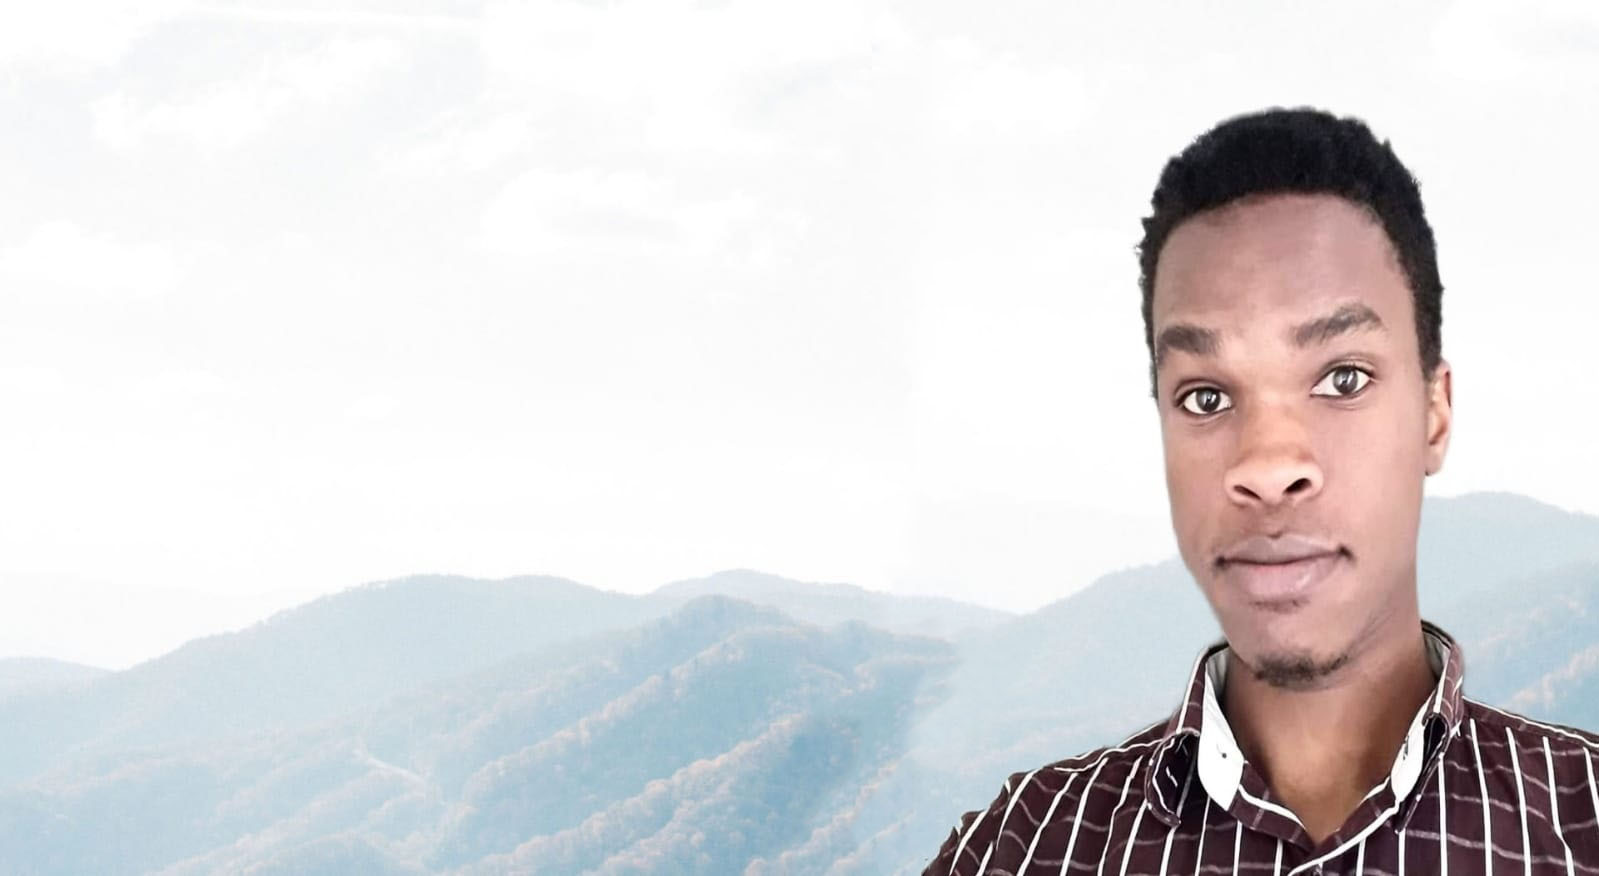
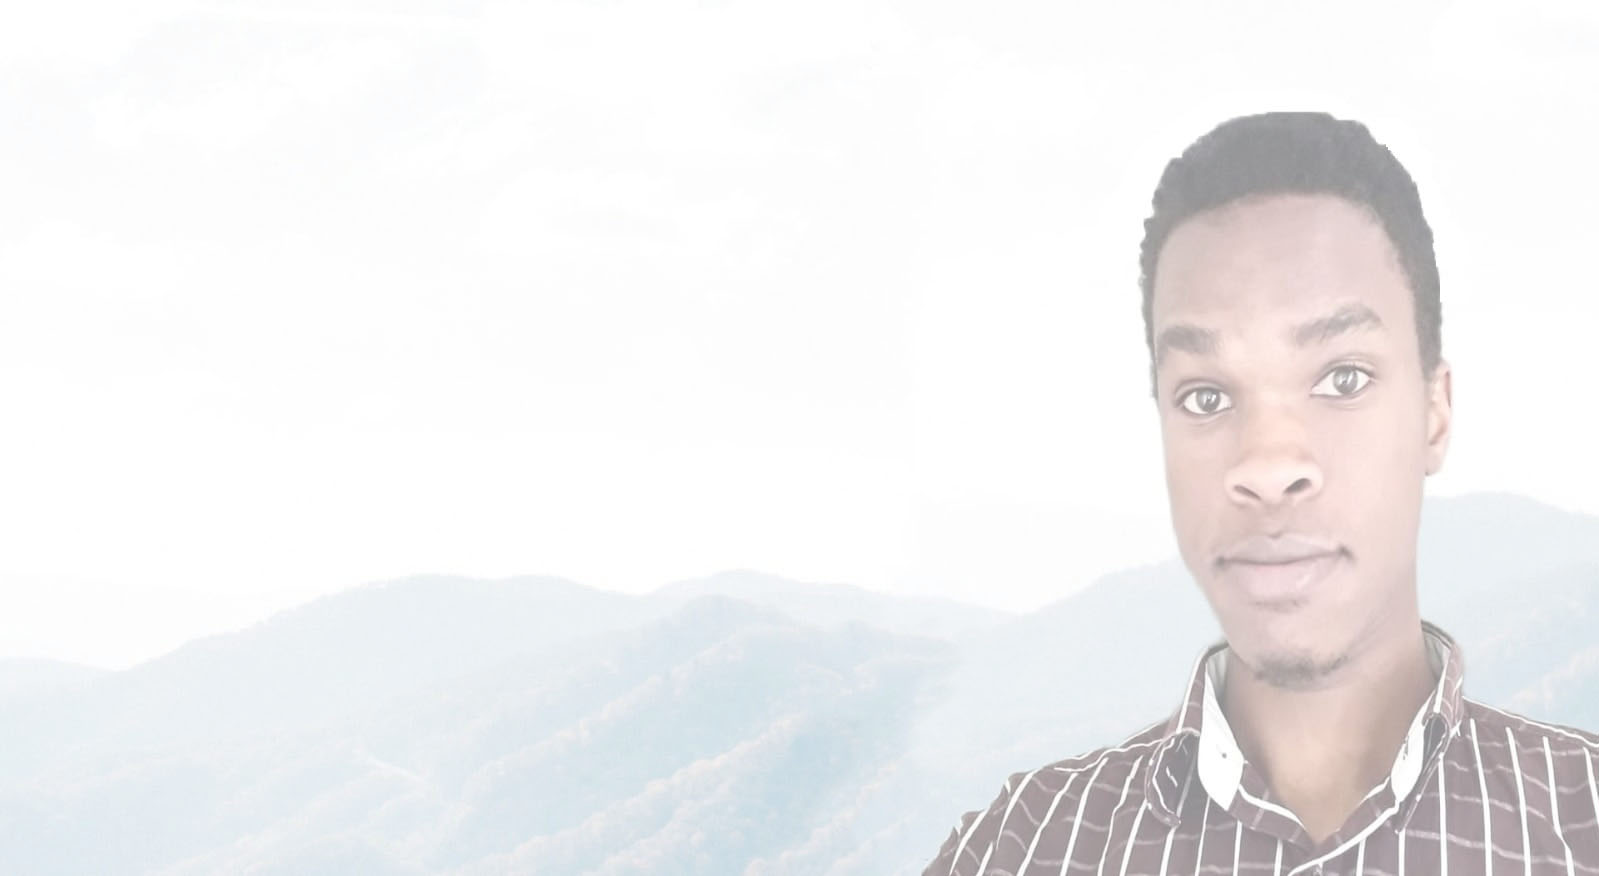
Updated aos code

diff --git a/index.html b/index.html
@@ -72,7 +72,7 @@
       <p>Computer Scientist specialising as <span class="typed" data-typed-items=" Software Developer, IT Infrastructure Engr., Data Visualisation, Cybersecurity Professional"></span></p>
       <div class="social-links">
         <a href="https://twitter.com/eariko1" class="twitter"><i class="bx bxl-twitter"></i></a>
-        <a href="https://www.facebook.com/arikom.org/" class="facebook"><i class="bx bxl-facebook"></i></a>
+        <a href="https://www.facebook.com/arikomtech/" class="facebook"><i class="bx bxl-facebook"></i></a>
         <a href="#" class="instagram"><i class="bx bxl-instagram"></i></a>
         <a href="https://www.linkedin.com/in/emmanuel-jesse-ariko/" class="linkedin"><i class="bx bxl-linkedin"></i></a>
       </div>
@@ -86,7 +86,7 @@
 
         <div class="section-title">
           <h2>About</h2>
-          <h3 style="font-family: 'Segoe UI', Tahoma, Geneva, Verdana, sans-serif; color: rgb(50, 133, 201);">Emmanuel Jesse Ariko</h3>
+          <h3 class="mx-2" style="font-family: 'Segoe UI', Tahoma, Geneva, Verdana, sans-serif; color: rgb(50, 133, 201);">Emmanuel Jesse Ariko</h3>
           <p class="mx-1">Principal software developer and Network Infrastructure Engineer with expert knowledge developing and debugging in C#, Python and Java. With strong Web experience developing in PHP or Bash, JavaScript, HTML/CSS, SQL and modern web frameworks. I have got vast hands-on experience with programming, data science, filesystems, cloud computing, server architectures, and distributed systems, along with high engineering level support for IT Infrastructure and Comunications networks.</p>
         </div>
 
@@ -125,7 +125,6 @@
 
       </div>
     </section>
-
 
     <section id="facts" class="facts">
       <div class="container" data-aos="fade-up">

diff --git a/css/style.css b/css/style.css
@@ -262,7 +262,7 @@ h1, h2, h3, h4, h5, h6 {
 #hero {
   width: 100%;
   height: 100vh;
-  background: url("../img/hero-bg.jpg") top right no-repeat;
+  background: url("../img/portfolio/hero-bg.jpg") top right no-repeat;
   background-size: cover;
   position: relative;
   z-index: 1;
@@ -274,7 +274,7 @@ h1, h2, h3, h4, h5, h6 {
   }
 }
 
-#hero::before {
+/* #hero::before {
   content: "";
   background: rgba(255, 255, 255, 0.7);
   position: absolute;
@@ -282,7 +282,7 @@ h1, h2, h3, h4, h5, h6 {
   top: 0;
   left: 0;
   right: 0;
-}
+} */
 
 #hero h1 {
   margin: 0;

diff --git a/js/main.js b/js/main.js
@@ -280,7 +280,9 @@
   * AOS animation
   */
 
- AOS.init({
-  duration: 1200,
-})
+//  AOS.init({
+//   startEvent: 'load',
+//   duration: 1200,
+  
+// })
  
